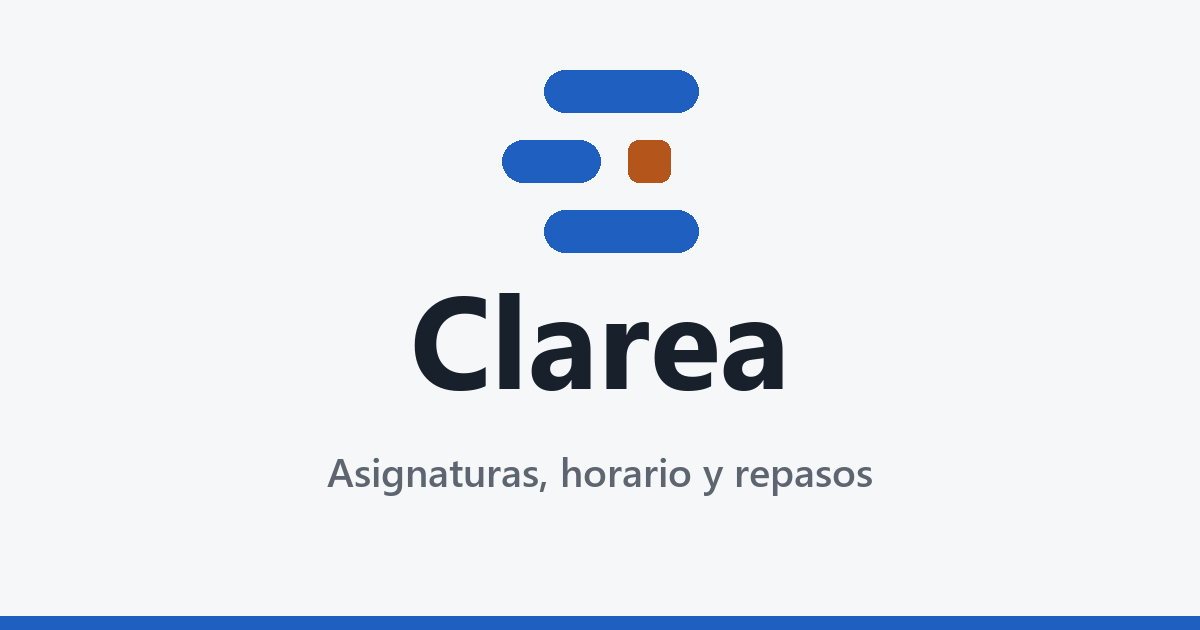
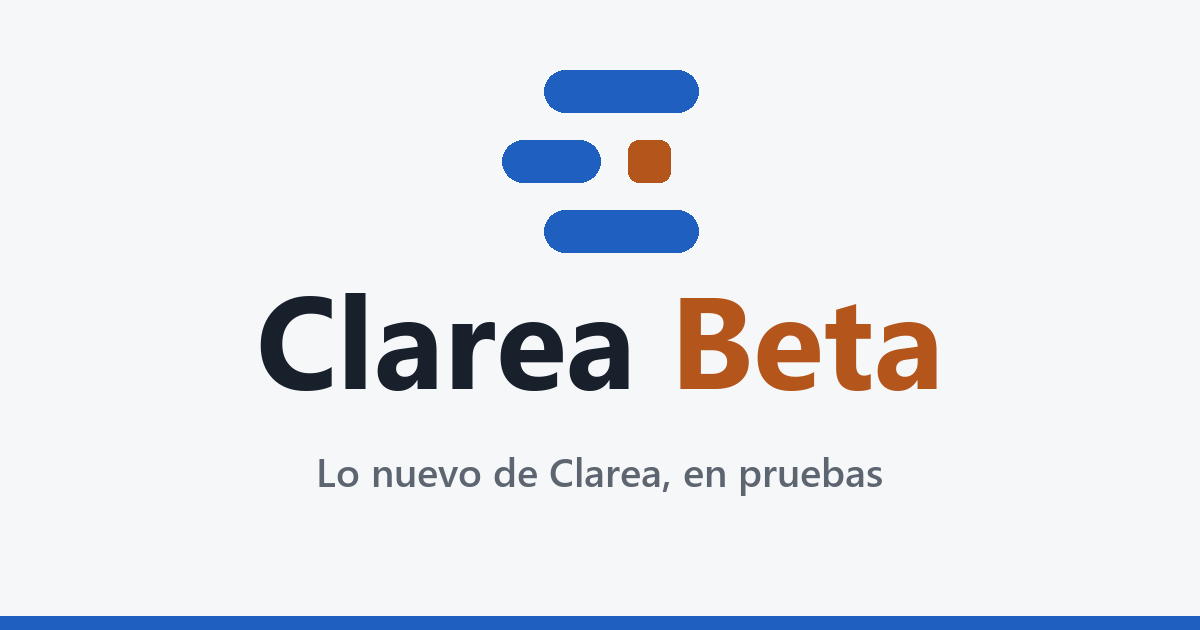
Link preview: Clarea Beta

Changed region(s): [[0.2158, 0.4524, 0.8017, 0.6333], [0.2467, 0.7238, 0.74, 0.7841]]

diff --git a/repaso-pj6.html b/repaso-pj6.html
@@ -4,14 +4,14 @@
 <meta charset="utf-8">
 <meta name="description" content="Tus asignaturas, horario, faltas de asistencia y repasos de proyectos.">
 <meta property="og:type" content="website">
-<meta property="og:site_name" content="Clarea">
-<meta property="og:title" content="Clarea">
-<meta property="og:description" content="Asignaturas, horario, faltas y repasos de tus proyectos.">
-<meta property="og:url" content="https://clarea.dev/">
-<meta property="og:image" content="https://clarea.dev/og-image.png?v=20261112103555">
+<meta property="og:site_name" content="Clarea Beta">
+<meta property="og:title" content="Clarea Beta">
+<meta property="og:description" content="La versión en pruebas de Clarea: lo nuevo, antes que nadie.">
+<meta property="og:url" content="https://beta.clarea.dev/">
+<meta property="og:image" content="https://beta.clarea.dev/og-image.png?v=20261112105821">
 <meta property="og:image:width" content="1200">
 <meta property="og:image:height" content="630">
-<meta property="og:image:alt" content="Logo de Clarea">
+<meta property="og:image:alt" content="Logo de Clarea Beta">
 <meta property="og:locale" content="es_ES">
 <meta name="twitter:card" content="summary_large_image">
 <script>/* every relative address points to the app folder, also on clean addresses like /clarea/asig/PJ6 */
@@ -19,12 +19,12 @@
 <meta name="theme-color" content="#1f5fbf">
 <meta name="apple-mobile-web-app-capable" content="yes">
 <meta name="mobile-web-app-capable" content="yes">
-<meta name="apple-mobile-web-app-title" content="Clarea">
+<meta name="apple-mobile-web-app-title" content="Clarea β">
 <meta name="apple-mobile-web-app-status-bar-style" content="default">
 <link rel="manifest" href="manifest.webmanifest">
 <link rel="apple-touch-icon" href="apple-touch-icon.png">
 <link rel="icon" type="image/png" sizes="64x64" href="favicon.png">
-<script>window.CLAREA_VERSION = "20261112103555"; window.CLAREA_RELEASE = "1.1"; window.CLAREA_BETA = true; window.CLAREA_CHANGES = [{"v": "1.1", "date": "", "title": "Notificaciones, recordatorios e instalar", "items": [["Tareas en segundo plano", "Un apartado nuevo en el menú para ver lo que Clarea está haciendo: la sincronización y la generación con IA, parte por parte, con botón para pararla."], ["Notificaciones", "Los avisos de Clarea en un solo sitio, con los que no has leído marcados. Se guardan en tu cuenta, así que los ves en todos tus dispositivos."], ["Recordatorios", "Al abrir Clarea te avisa de las entregas y exámenes de hoy y de mañana."], ["Añadir a mi calendario", "Cada evento se puede guardar en el calendario del iPhone, de Google o de Outlook, con avisos el día antes que llegan aunque Clarea esté cerrada."], ["Instalar", "Un botón en el móvil para tener Clarea en la pantalla de inicio, con una guía para cada navegador."], ["Guía para la clave de IA", "Paso a paso para conseguir tu clave de Gemini, Claude o ChatGPT, y mensajes de error claros que dicen qué hacer."], ["Novedades", "Esta pantalla: lo nuevo de cada versión."], ["Más limpio", "El tema y tu perfil juntos en la barra de arriba, sin la barra flotante de la IA, y si borras un proyecto que se estaba generando, se cancela solo."]]}, {"v": "1.0", "date": "2026-11-12", "title": "Primera versión", "items": [["Cuentas", "Sincronización entre dispositivos y opción de recordar la sesión."], ["Clases", "DAW-2A y ASIX-2A (Jesuitas Clot) y 1.º DAW (La Salle), con su horario."], ["Hoy", "Las clases del día con hora de inicio y fin, entregas y exámenes."], ["Asignaturas", "Con sus profes, el horario y las faltas de asistencia."], ["Calendario", "Entregas y exámenes (práctico, teórico y de código), con notas, edición y aviso de horas ocupadas."], ["Proyectos", "Sube tu código (carpeta, .zip o GitHub) y Clarea te prepara un repaso: código explicado, historial de Git, glosario y exámenes, con tu propia IA."], ["App", "Se instala en el móvil, funciona sin conexión y tiene modo claro y oscuro."]]}];</script>
+<script>window.CLAREA_VERSION = "20261112105821"; window.CLAREA_RELEASE = "1.1"; window.CLAREA_BETA = true; window.CLAREA_CHANGES = [{"v": "1.1", "date": "", "title": "Notificaciones, recordatorios e instalar", "items": [["Tareas en segundo plano", "Un apartado nuevo en el menú para ver lo que Clarea está haciendo: la sincronización y la generación con IA, parte por parte, con botón para pararla."], ["Notificaciones", "Los avisos de Clarea en un solo sitio, con los que no has leído marcados. Se guardan en tu cuenta, así que los ves en todos tus dispositivos."], ["Recordatorios", "Al abrir Clarea te avisa de las entregas y exámenes de hoy y de mañana."], ["Añadir a mi calendario", "Cada evento se puede guardar en el calendario del iPhone, de Google o de Outlook, con avisos el día antes que llegan aunque Clarea esté cerrada."], ["Instalar", "Un botón en el móvil para tener Clarea en la pantalla de inicio, con una guía para cada navegador."], ["Guía para la clave de IA", "Paso a paso para conseguir tu clave de Gemini, Claude o ChatGPT, y mensajes de error claros que dicen qué hacer."], ["Novedades", "Esta pantalla: lo nuevo de cada versión."], ["Más limpio", "El tema y tu perfil juntos en la barra de arriba, sin la barra flotante de la IA, y si borras un proyecto que se estaba generando, se cancela solo."]]}, {"v": "1.0", "date": "2026-11-12", "title": "Primera versión", "items": [["Cuentas", "Sincronización entre dispositivos y opción de recordar la sesión."], ["Clases", "DAW-2A y ASIX-2A (Jesuitas Clot) y 1.º DAW (La Salle), con su horario."], ["Hoy", "Las clases del día con hora de inicio y fin, entregas y exámenes."], ["Asignaturas", "Con sus profes, el horario y las faltas de asistencia."], ["Calendario", "Entregas y exámenes (práctico, teórico y de código), con notas, edición y aviso de horas ocupadas."], ["Proyectos", "Sube tu código (carpeta, .zip o GitHub) y Clarea te prepara un repaso: código explicado, historial de Git, glosario y exámenes, con tu propia IA."], ["App", "Se instala en el móvil, funciona sin conexión y tiene modo claro y oscuro."]]}];</script>
 <title>PJ6 · Repaso · Clarea</title>
 <meta name="viewport" content="width=device-width, initial-scale=1, viewport-fit=cover">
 <link rel="preconnect" href="https://fonts.googleapis.com">

diff --git a/proyecto.html b/proyecto.html
@@ -4,14 +4,14 @@
 <meta charset="utf-8">
 <meta name="description" content="Tus asignaturas, horario, faltas de asistencia y repasos de proyectos.">
 <meta property="og:type" content="website">
-<meta property="og:site_name" content="Clarea">
-<meta property="og:title" content="Clarea">
-<meta property="og:description" content="Asignaturas, horario, faltas y repasos de tus proyectos.">
-<meta property="og:url" content="https://clarea.dev/">
-<meta property="og:image" content="https://clarea.dev/og-image.png?v=20261112103555">
+<meta property="og:site_name" content="Clarea Beta">
+<meta property="og:title" content="Clarea Beta">
+<meta property="og:description" content="La versión en pruebas de Clarea: lo nuevo, antes que nadie.">
+<meta property="og:url" content="https://beta.clarea.dev/">
+<meta property="og:image" content="https://beta.clarea.dev/og-image.png?v=20261112105821">
 <meta property="og:image:width" content="1200">
 <meta property="og:image:height" content="630">
-<meta property="og:image:alt" content="Logo de Clarea">
+<meta property="og:image:alt" content="Logo de Clarea Beta">
 <meta property="og:locale" content="es_ES">
 <meta name="twitter:card" content="summary_large_image">
 <script>/* every relative address points to the app folder, also on clean addresses like /clarea/asig/PJ6 */
@@ -19,12 +19,12 @@
 <meta name="theme-color" content="#1f5fbf">
 <meta name="apple-mobile-web-app-capable" content="yes">
 <meta name="mobile-web-app-capable" content="yes">
-<meta name="apple-mobile-web-app-title" content="Clarea">
+<meta name="apple-mobile-web-app-title" content="Clarea β">
 <meta name="apple-mobile-web-app-status-bar-style" content="default">
 <link rel="manifest" href="manifest.webmanifest">
 <link rel="apple-touch-icon" href="apple-touch-icon.png">
 <link rel="icon" type="image/png" sizes="64x64" href="favicon.png">
-<script>window.CLAREA_VERSION = "20261112103555"; window.CLAREA_RELEASE = "1.1"; window.CLAREA_BETA = true; window.CLAREA_CHANGES = [{"v": "1.1", "date": "", "title": "Notificaciones, recordatorios e instalar", "items": [["Tareas en segundo plano", "Un apartado nuevo en el menú para ver lo que Clarea está haciendo: la sincronización y la generación con IA, parte por parte, con botón para pararla."], ["Notificaciones", "Los avisos de Clarea en un solo sitio, con los que no has leído marcados. Se guardan en tu cuenta, así que los ves en todos tus dispositivos."], ["Recordatorios", "Al abrir Clarea te avisa de las entregas y exámenes de hoy y de mañana."], ["Añadir a mi calendario", "Cada evento se puede guardar en el calendario del iPhone, de Google o de Outlook, con avisos el día antes que llegan aunque Clarea esté cerrada."], ["Instalar", "Un botón en el móvil para tener Clarea en la pantalla de inicio, con una guía para cada navegador."], ["Guía para la clave de IA", "Paso a paso para conseguir tu clave de Gemini, Claude o ChatGPT, y mensajes de error claros que dicen qué hacer."], ["Novedades", "Esta pantalla: lo nuevo de cada versión."], ["Más limpio", "El tema y tu perfil juntos en la barra de arriba, sin la barra flotante de la IA, y si borras un proyecto que se estaba generando, se cancela solo."]]}, {"v": "1.0", "date": "2026-11-12", "title": "Primera versión", "items": [["Cuentas", "Sincronización entre dispositivos y opción de recordar la sesión."], ["Clases", "DAW-2A y ASIX-2A (Jesuitas Clot) y 1.º DAW (La Salle), con su horario."], ["Hoy", "Las clases del día con hora de inicio y fin, entregas y exámenes."], ["Asignaturas", "Con sus profes, el horario y las faltas de asistencia."], ["Calendario", "Entregas y exámenes (práctico, teórico y de código), con notas, edición y aviso de horas ocupadas."], ["Proyectos", "Sube tu código (carpeta, .zip o GitHub) y Clarea te prepara un repaso: código explicado, historial de Git, glosario y exámenes, con tu propia IA."], ["App", "Se instala en el móvil, funciona sin conexión y tiene modo claro y oscuro."]]}];</script>
+<script>window.CLAREA_VERSION = "20261112105821"; window.CLAREA_RELEASE = "1.1"; window.CLAREA_BETA = true; window.CLAREA_CHANGES = [{"v": "1.1", "date": "", "title": "Notificaciones, recordatorios e instalar", "items": [["Tareas en segundo plano", "Un apartado nuevo en el menú para ver lo que Clarea está haciendo: la sincronización y la generación con IA, parte por parte, con botón para pararla."], ["Notificaciones", "Los avisos de Clarea en un solo sitio, con los que no has leído marcados. Se guardan en tu cuenta, así que los ves en todos tus dispositivos."], ["Recordatorios", "Al abrir Clarea te avisa de las entregas y exámenes de hoy y de mañana."], ["Añadir a mi calendario", "Cada evento se puede guardar en el calendario del iPhone, de Google o de Outlook, con avisos el día antes que llegan aunque Clarea esté cerrada."], ["Instalar", "Un botón en el móvil para tener Clarea en la pantalla de inicio, con una guía para cada navegador."], ["Guía para la clave de IA", "Paso a paso para conseguir tu clave de Gemini, Claude o ChatGPT, y mensajes de error claros que dicen qué hacer."], ["Novedades", "Esta pantalla: lo nuevo de cada versión."], ["Más limpio", "El tema y tu perfil juntos en la barra de arriba, sin la barra flotante de la IA, y si borras un proyecto que se estaba generando, se cancela solo."]]}, {"v": "1.0", "date": "2026-11-12", "title": "Primera versión", "items": [["Cuentas", "Sincronización entre dispositivos y opción de recordar la sesión."], ["Clases", "DAW-2A y ASIX-2A (Jesuitas Clot) y 1.º DAW (La Salle), con su horario."], ["Hoy", "Las clases del día con hora de inicio y fin, entregas y exámenes."], ["Asignaturas", "Con sus profes, el horario y las faltas de asistencia."], ["Calendario", "Entregas y exámenes (práctico, teórico y de código), con notas, edición y aviso de horas ocupadas."], ["Proyectos", "Sube tu código (carpeta, .zip o GitHub) y Clarea te prepara un repaso: código explicado, historial de Git, glosario y exámenes, con tu propia IA."], ["App", "Se instala en el móvil, funciona sin conexión y tiene modo claro y oscuro."]]}];</script>
 <title>Proyecto · Clarea</title>
 <meta name="viewport" content="width=device-width, initial-scale=1, viewport-fit=cover">
 <link rel="preconnect" href="https://fonts.googleapis.com">

diff --git a/404.html b/404.html
@@ -4,14 +4,14 @@
 <meta charset="utf-8">
 <meta name="description" content="Tus asignaturas, horario, faltas de asistencia y repasos de proyectos.">
 <meta property="og:type" content="website">
-<meta property="og:site_name" content="Clarea">
-<meta property="og:title" content="Clarea">
-<meta property="og:description" content="Asignaturas, horario, faltas y repasos de tus proyectos.">
-<meta property="og:url" content="https://clarea.dev/">
-<meta property="og:image" content="https://clarea.dev/og-image.png?v=20261112103555">
+<meta property="og:site_name" content="Clarea Beta">
+<meta property="og:title" content="Clarea Beta">
+<meta property="og:description" content="La versión en pruebas de Clarea: lo nuevo, antes que nadie.">
+<meta property="og:url" content="https://beta.clarea.dev/">
+<meta property="og:image" content="https://beta.clarea.dev/og-image.png?v=20261112105821">
 <meta property="og:image:width" content="1200">
 <meta property="og:image:height" content="630">
-<meta property="og:image:alt" content="Logo de Clarea">
+<meta property="og:image:alt" content="Logo de Clarea Beta">
 <meta property="og:locale" content="es_ES">
 <meta name="twitter:card" content="summary_large_image">
 <script>/* every relative address points to the app folder, also on clean addresses like /clarea/asig/PJ6 */
@@ -19,12 +19,12 @@
 <meta name="theme-color" content="#1f5fbf">
 <meta name="apple-mobile-web-app-capable" content="yes">
 <meta name="mobile-web-app-capable" content="yes">
-<meta name="apple-mobile-web-app-title" content="Clarea">
+<meta name="apple-mobile-web-app-title" content="Clarea β">
 <meta name="apple-mobile-web-app-status-bar-style" content="default">
 <link rel="manifest" href="manifest.webmanifest">
 <link rel="apple-touch-icon" href="apple-touch-icon.png">
 <link rel="icon" type="image/png" sizes="64x64" href="favicon.png">
-<script>window.CLAREA_VERSION = "20261112103555"; window.CLAREA_RELEASE = "1.1"; window.CLAREA_BETA = true; window.CLAREA_CHANGES = [{"v": "1.1", "date": "", "title": "Notificaciones, recordatorios e instalar", "items": [["Tareas en segundo plano", "Un apartado nuevo en el menú para ver lo que Clarea está haciendo: la sincronización y la generación con IA, parte por parte, con botón para pararla."], ["Notificaciones", "Los avisos de Clarea en un solo sitio, con los que no has leído marcados. Se guardan en tu cuenta, así que los ves en todos tus dispositivos."], ["Recordatorios", "Al abrir Clarea te avisa de las entregas y exámenes de hoy y de mañana."], ["Añadir a mi calendario", "Cada evento se puede guardar en el calendario del iPhone, de Google o de Outlook, con avisos el día antes que llegan aunque Clarea esté cerrada."], ["Instalar", "Un botón en el móvil para tener Clarea en la pantalla de inicio, con una guía para cada navegador."], ["Guía para la clave de IA", "Paso a paso para conseguir tu clave de Gemini, Claude o ChatGPT, y mensajes de error claros que dicen qué hacer."], ["Novedades", "Esta pantalla: lo nuevo de cada versión."], ["Más limpio", "El tema y tu perfil juntos en la barra de arriba, sin la barra flotante de la IA, y si borras un proyecto que se estaba generando, se cancela solo."]]}, {"v": "1.0", "date": "2026-11-12", "title": "Primera versión", "items": [["Cuentas", "Sincronización entre dispositivos y opción de recordar la sesión."], ["Clases", "DAW-2A y ASIX-2A (Jesuitas Clot) y 1.º DAW (La Salle), con su horario."], ["Hoy", "Las clases del día con hora de inicio y fin, entregas y exámenes."], ["Asignaturas", "Con sus profes, el horario y las faltas de asistencia."], ["Calendario", "Entregas y exámenes (práctico, teórico y de código), con notas, edición y aviso de horas ocupadas."], ["Proyectos", "Sube tu código (carpeta, .zip o GitHub) y Clarea te prepara un repaso: código explicado, historial de Git, glosario y exámenes, con tu propia IA."], ["App", "Se instala en el móvil, funciona sin conexión y tiene modo claro y oscuro."]]}];</script>
+<script>window.CLAREA_VERSION = "20261112105821"; window.CLAREA_RELEASE = "1.1"; window.CLAREA_BETA = true; window.CLAREA_CHANGES = [{"v": "1.1", "date": "", "title": "Notificaciones, recordatorios e instalar", "items": [["Tareas en segundo plano", "Un apartado nuevo en el menú para ver lo que Clarea está haciendo: la sincronización y la generación con IA, parte por parte, con botón para pararla."], ["Notificaciones", "Los avisos de Clarea en un solo sitio, con los que no has leído marcados. Se guardan en tu cuenta, así que los ves en todos tus dispositivos."], ["Recordatorios", "Al abrir Clarea te avisa de las entregas y exámenes de hoy y de mañana."], ["Añadir a mi calendario", "Cada evento se puede guardar en el calendario del iPhone, de Google o de Outlook, con avisos el día antes que llegan aunque Clarea esté cerrada."], ["Instalar", "Un botón en el móvil para tener Clarea en la pantalla de inicio, con una guía para cada navegador."], ["Guía para la clave de IA", "Paso a paso para conseguir tu clave de Gemini, Claude o ChatGPT, y mensajes de error claros que dicen qué hacer."], ["Novedades", "Esta pantalla: lo nuevo de cada versión."], ["Más limpio", "El tema y tu perfil juntos en la barra de arriba, sin la barra flotante de la IA, y si borras un proyecto que se estaba generando, se cancela solo."]]}, {"v": "1.0", "date": "2026-11-12", "title": "Primera versión", "items": [["Cuentas", "Sincronización entre dispositivos y opción de recordar la sesión."], ["Clases", "DAW-2A y ASIX-2A (Jesuitas Clot) y 1.º DAW (La Salle), con su horario."], ["Hoy", "Las clases del día con hora de inicio y fin, entregas y exámenes."], ["Asignaturas", "Con sus profes, el horario y las faltas de asistencia."], ["Calendario", "Entregas y exámenes (práctico, teórico y de código), con notas, edición y aviso de horas ocupadas."], ["Proyectos", "Sube tu código (carpeta, .zip o GitHub) y Clarea te prepara un repaso: código explicado, historial de Git, glosario y exámenes, con tu propia IA."], ["App", "Se instala en el móvil, funciona sin conexión y tiene modo claro y oscuro."]]}];</script>
 <title>Clarea</title>
 <meta name="viewport" content="width=device-width, initial-scale=1, viewport-fit=cover">
 <link rel="preconnect" href="https://fonts.googleapis.com">

diff --git a/index.html b/index.html
@@ -4,14 +4,14 @@
 <meta charset="utf-8">
 <meta name="description" content="Tus asignaturas, horario, faltas de asistencia y repasos de proyectos.">
 <meta property="og:type" content="website">
-<meta property="og:site_name" content="Clarea">
-<meta property="og:title" content="Clarea">
-<meta property="og:description" content="Asignaturas, horario, faltas y repasos de tus proyectos.">
-<meta property="og:url" content="https://clarea.dev/">
-<meta property="og:image" content="https://clarea.dev/og-image.png?v=20261112103555">
+<meta property="og:site_name" content="Clarea Beta">
+<meta property="og:title" content="Clarea Beta">
+<meta property="og:description" content="La versión en pruebas de Clarea: lo nuevo, antes que nadie.">
+<meta property="og:url" content="https://beta.clarea.dev/">
+<meta property="og:image" content="https://beta.clarea.dev/og-image.png?v=20261112105821">
 <meta property="og:image:width" content="1200">
 <meta property="og:image:height" content="630">
-<meta property="og:image:alt" content="Logo de Clarea">
+<meta property="og:image:alt" content="Logo de Clarea Beta">
 <meta property="og:locale" content="es_ES">
 <meta name="twitter:card" content="summary_large_image">
 <script>/* every relative address points to the app folder, also on clean addresses like /clarea/asig/PJ6 */
@@ -19,12 +19,12 @@
 <meta name="theme-color" content="#1f5fbf">
 <meta name="apple-mobile-web-app-capable" content="yes">
 <meta name="mobile-web-app-capable" content="yes">
-<meta name="apple-mobile-web-app-title" content="Clarea">
+<meta name="apple-mobile-web-app-title" content="Clarea β">
 <meta name="apple-mobile-web-app-status-bar-style" content="default">
 <link rel="manifest" href="manifest.webmanifest">
 <link rel="apple-touch-icon" href="apple-touch-icon.png">
 <link rel="icon" type="image/png" sizes="64x64" href="favicon.png">
-<script>window.CLAREA_VERSION = "20261112103555"; window.CLAREA_RELEASE = "1.1"; window.CLAREA_BETA = true; window.CLAREA_CHANGES = [{"v": "1.1", "date": "", "title": "Notificaciones, recordatorios e instalar", "items": [["Tareas en segundo plano", "Un apartado nuevo en el menú para ver lo que Clarea está haciendo: la sincronización y la generación con IA, parte por parte, con botón para pararla."], ["Notificaciones", "Los avisos de Clarea en un solo sitio, con los que no has leído marcados. Se guardan en tu cuenta, así que los ves en todos tus dispositivos."], ["Recordatorios", "Al abrir Clarea te avisa de las entregas y exámenes de hoy y de mañana."], ["Añadir a mi calendario", "Cada evento se puede guardar en el calendario del iPhone, de Google o de Outlook, con avisos el día antes que llegan aunque Clarea esté cerrada."], ["Instalar", "Un botón en el móvil para tener Clarea en la pantalla de inicio, con una guía para cada navegador."], ["Guía para la clave de IA", "Paso a paso para conseguir tu clave de Gemini, Claude o ChatGPT, y mensajes de error claros que dicen qué hacer."], ["Novedades", "Esta pantalla: lo nuevo de cada versión."], ["Más limpio", "El tema y tu perfil juntos en la barra de arriba, sin la barra flotante de la IA, y si borras un proyecto que se estaba generando, se cancela solo."]]}, {"v": "1.0", "date": "2026-11-12", "title": "Primera versión", "items": [["Cuentas", "Sincronización entre dispositivos y opción de recordar la sesión."], ["Clases", "DAW-2A y ASIX-2A (Jesuitas Clot) y 1.º DAW (La Salle), con su horario."], ["Hoy", "Las clases del día con hora de inicio y fin, entregas y exámenes."], ["Asignaturas", "Con sus profes, el horario y las faltas de asistencia."], ["Calendario", "Entregas y exámenes (práctico, teórico y de código), con notas, edición y aviso de horas ocupadas."], ["Proyectos", "Sube tu código (carpeta, .zip o GitHub) y Clarea te prepara un repaso: código explicado, historial de Git, glosario y exámenes, con tu propia IA."], ["App", "Se instala en el móvil, funciona sin conexión y tiene modo claro y oscuro."]]}];</script>
+<script>window.CLAREA_VERSION = "20261112105821"; window.CLAREA_RELEASE = "1.1"; window.CLAREA_BETA = true; window.CLAREA_CHANGES = [{"v": "1.1", "date": "", "title": "Notificaciones, recordatorios e instalar", "items": [["Tareas en segundo plano", "Un apartado nuevo en el menú para ver lo que Clarea está haciendo: la sincronización y la generación con IA, parte por parte, con botón para pararla."], ["Notificaciones", "Los avisos de Clarea en un solo sitio, con los que no has leído marcados. Se guardan en tu cuenta, así que los ves en todos tus dispositivos."], ["Recordatorios", "Al abrir Clarea te avisa de las entregas y exámenes de hoy y de mañana."], ["Añadir a mi calendario", "Cada evento se puede guardar en el calendario del iPhone, de Google o de Outlook, con avisos el día antes que llegan aunque Clarea esté cerrada."], ["Instalar", "Un botón en el móvil para tener Clarea en la pantalla de inicio, con una guía para cada navegador."], ["Guía para la clave de IA", "Paso a paso para conseguir tu clave de Gemini, Claude o ChatGPT, y mensajes de error claros que dicen qué hacer."], ["Novedades", "Esta pantalla: lo nuevo de cada versión."], ["Más limpio", "El tema y tu perfil juntos en la barra de arriba, sin la barra flotante de la IA, y si borras un proyecto que se estaba generando, se cancela solo."]]}, {"v": "1.0", "date": "2026-11-12", "title": "Primera versión", "items": [["Cuentas", "Sincronización entre dispositivos y opción de recordar la sesión."], ["Clases", "DAW-2A y ASIX-2A (Jesuitas Clot) y 1.º DAW (La Salle), con su horario."], ["Hoy", "Las clases del día con hora de inicio y fin, entregas y exámenes."], ["Asignaturas", "Con sus profes, el horario y las faltas de asistencia."], ["Calendario", "Entregas y exámenes (práctico, teórico y de código), con notas, edición y aviso de horas ocupadas."], ["Proyectos", "Sube tu código (carpeta, .zip o GitHub) y Clarea te prepara un repaso: código explicado, historial de Git, glosario y exámenes, con tu propia IA."], ["App", "Se instala en el móvil, funciona sin conexión y tiene modo claro y oscuro."]]}];</script>
 <title>Clarea</title>
 <meta name="viewport" content="width=device-width, initial-scale=1, viewport-fit=cover">
 <link rel="preconnect" href="https://fonts.googleapis.com">

diff --git a/privacidad.html b/privacidad.html
@@ -4,14 +4,14 @@
 <meta charset="utf-8">
 <meta name="description" content="Tus asignaturas, horario, faltas de asistencia y repasos de proyectos.">
 <meta property="og:type" content="website">
-<meta property="og:site_name" content="Clarea">
-<meta property="og:title" content="Clarea">
-<meta property="og:description" content="Asignaturas, horario, faltas y repasos de tus proyectos.">
-<meta property="og:url" content="https://clarea.dev/">
-<meta property="og:image" content="https://clarea.dev/og-image.png?v=20261112103555">
+<meta property="og:site_name" content="Clarea Beta">
+<meta property="og:title" content="Clarea Beta">
+<meta property="og:description" content="La versión en pruebas de Clarea: lo nuevo, antes que nadie.">
+<meta property="og:url" content="https://beta.clarea.dev/">
+<meta property="og:image" content="https://beta.clarea.dev/og-image.png?v=20261112105821">
 <meta property="og:image:width" content="1200">
 <meta property="og:image:height" content="630">
-<meta property="og:image:alt" content="Logo de Clarea">
+<meta property="og:image:alt" content="Logo de Clarea Beta">
 <meta property="og:locale" content="es_ES">
 <meta name="twitter:card" content="summary_large_image">
 <script>/* every relative address points to the app folder, also on clean addresses like /clarea/asig/PJ6 */
@@ -19,7 +19,7 @@
 <meta name="theme-color" content="#1f5fbf">
 <meta name="apple-mobile-web-app-capable" content="yes">
 <meta name="mobile-web-app-capable" content="yes">
-<meta name="apple-mobile-web-app-title" content="Clarea">
+<meta name="apple-mobile-web-app-title" content="Clarea β">
 <meta name="apple-mobile-web-app-status-bar-style" content="default">
 <link rel="manifest" href="manifest.webmanifest">
 <link rel="apple-touch-icon" href="apple-touch-icon.png">

diff --git a/sw.js b/sw.js
@@ -2,7 +2,7 @@
    - Each published version has its own cache, filled when the new version is downloaded.
    - The new version waits until the user taps "Actualizar" (message SKIP_WAITING), then the page reloads.
    - Works without internet: everything is answered from the cache. */
-const CACHE = "clarea-20261112103555";
+const CACHE = "clarea-20261112105821";
 const CORE = ["./", "./index.html", "./repaso-pj6.html", "./proyecto.html", "./privacidad.html", "./manifest.webmanifest", "./icon-192.png", "./icon-512.png", "./apple-touch-icon.png"];
 
 function pageKey(req){ const p = new URL(req.url).pathname; return /repaso-pj6\.html$/.test(p) ? "./repaso-pj6.html" : /proyecto\.html$/.test(p) ? "./proyecto.html" : /privacidad\.html$/.test(p) ? "./privacidad.html" : "./index.html"; }
